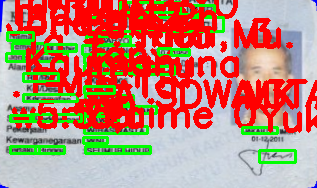
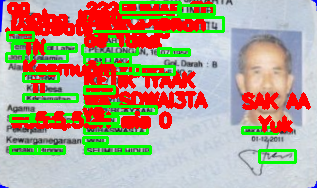
fixed font scaling

Changed region(s): [[0.0, 0.0, 1.0, 0.7181], [0.0284, 0.4787, 0.0852, 0.5319]]

diff --git a/main.py b/main.py
@@ -251,7 +251,7 @@ def detectText(image, width, height, east_path, min_confidence, padding):
         # draw the boudning box on the image
         cv2.rectangle(orig, (startX, startY), (endX, endY), (0, 255, 0), 2)
         cv2.putText(orig, text, (startX, startY - 20),
-                cv2.FONT_HERSHEY_SIMPLEX, 1.2, (0, 0, 255), 3)
+                cv2.FONT_HERSHEY_SIMPLEX, 0.6, (0, 0, 255), 3)
 
     return orig
   
